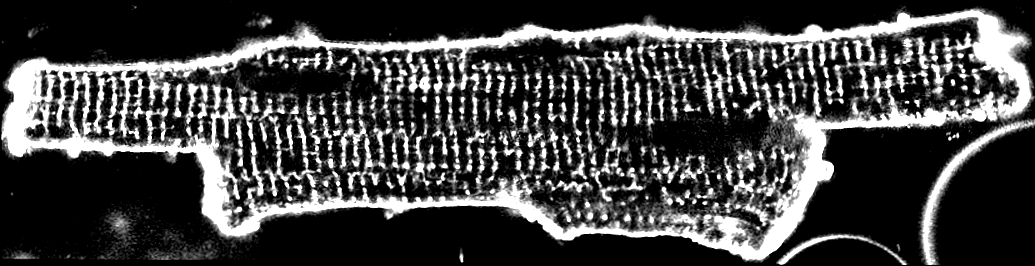
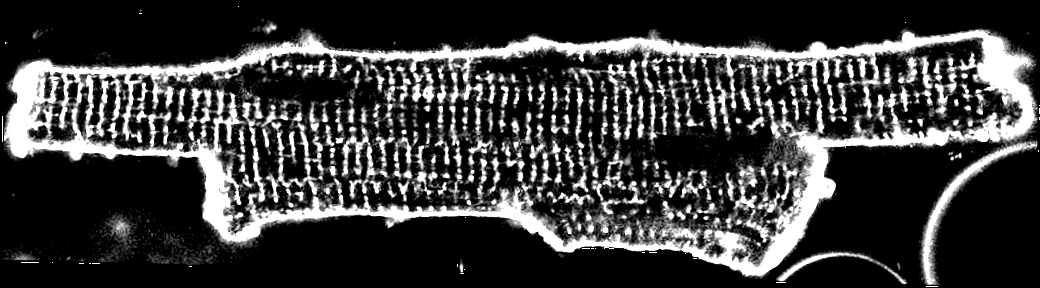
Fixed issue with rotation values not validating. Made improvements to auto preprocessing routine

diff --git a/preprocessing.py b/preprocessing.py
@@ -35,10 +35,11 @@ def normalizeToStriations(img, subsectionIdxs,filterSize):
   thisPath = os.path.realpath(__file__).split('/')[:-1]
   thisPath = '/'.join(thisPath)
   WTfilterName = thisPath+'/myoimages/singleTTFilter.png'
-  #WTfilter = util.ReadImg(WTfilterName,renorm=True)
-  # divide by the sum so that we are averaging across the filter
-  #WTfilter /= np.sum(WTfilter)
   WTfilter = util.LoadFilter(WTfilterName)
+
+  if img.dtype != np.uint8:
+    img = img.astype(np.float32) / float(np.max(img)) * 255.
+    img = img.astype(np.uint8)
 
   ### Perform smoothing on subsection
   smoothed = np.asarray(mF.matchedFilter(img,WTfilter,demean=False))
@@ -48,8 +49,9 @@ def normalizeToStriations(img, subsectionIdxs,filterSize):
                                        subsectionIdxs[2]:subsectionIdxs[3]]
 
   ### Now we have to normalize to 255 for cv2 algorithm to work
-  smoothedSubsection = smoothedSubsection * 255. / np.max(smoothedSubsection)
-  smoothedSubsection = smoothedSubsection.astype(np.uint8)
+  if img.dtype != np.uint8:
+    smoothedSubsection = smoothedSubsection * 255. / np.max(smoothedSubsection)
+    smoothedSubsection = smoothedSubsection.astype(np.uint8)
   #plt.figure()
   #plt.imshow(smoothedSubsection)
   #plt.colorbar()
@@ -413,10 +415,20 @@ def resizeGivenSubsection(img,subsection,filterTwoSarcomereSize,indexes):
 def applyCLAHE(img,filterTwoSarcomereSize):
   print "Applying CLAHE to Myocyte"
 
+  if img.dtype != np.uint8:
+    # convert to uint8 data type to use with clahe algorithm
+    fixed = True
+    oldImgMax = np.max(img)
+    img = img * 255. / float(np.max(img))
+    img = img.astype(np.uint8)
+
   kernel = (filterTwoSarcomereSize, filterTwoSarcomereSize)
   clahe = cv2.createCLAHE(clipLimit=2.0, tileGridSize=kernel)
 
   clahedImage = clahe.apply(img)
+
+  if fixed:
+    img = img.astype(np.float32) / float(np.max(img)) * oldImgMax
 
   return clahedImage
 ###############################################################################
@@ -425,7 +437,7 @@ def applyCLAHE(img,filterTwoSarcomereSize):
 ###
 ###############################################################################
 
-def preprocess(fileName,filterTwoSarcomereSize):
+def preprocess(fileName,filterTwoSarcomereSize,writeImage=False):
   img = util.ReadImg(fileName)
 
   img,degreesOffCenter = reorient(img)
@@ -440,9 +452,12 @@ def preprocess(fileName,filterTwoSarcomereSize):
     1
 
   # write file
-  name,fileType = fileName[:-4],fileName[-4:]
-  newName = name+"_processed"+fileType
-  cv2.imwrite(newName,img)
+  if writeImage:
+    name,fileType = fileName[:-4],fileName[-4:]
+    newName = name+"_processed"+fileType
+    cv2.imwrite(newName,img)
+
+  img = img.astype(np.float32) / float(np.max(img))
 
   return img
 

diff --git a/matchedmyo.py b/matchedmyo.py
@@ -307,7 +307,13 @@ class Inputs:
 
     ### Check to see if we need to preprocess the image at all
     if self.dic['preprocess']:
+      self.imgOrig = util.ReadImg(self.imageName)
       self.imgOrig = pp.preprocess(self.dic['imageName'], self.dic['filterTwoSarcomereSize'])
+      ## remake the color image
+      eightBitImage = self.imgOrig.astype(np.float32).copy()
+      eightBitImage = eightBitImage / np.max(eightBitImage) * 255. * 0.8 # 0.8 is to kill the brightness
+      eightBitImage = eightBitImage.astype(np.uint8)
+      self.colorImage = np.dstack((eightBitImage,eightBitImage,eightBitImage))
 
   def load_yaml(self):
     '''Function to read and store the yaml dictionary'''
@@ -605,11 +611,8 @@ def analyzeTT_Angles(testImageName,
   ttFilter = util.LoadFilter(ttFilterName)
   longFilter = np.concatenate((ttFilter,ttFilter,ttFilter))
     
-  #rotInputs = Inputs(
-  #  imageName = inputs.imageName,
-  #  yamlFileName = inputs.yamlFileName,
-  #  mfOrig = longFilter)
   rotInputs = copy.deepcopy(inputs)
+  rotInputs.mfOrig = longFilter
   rotInputs.imgOrig = smoothed
 
   params = optimizer.ParamDict(typeDict='WT')
@@ -733,7 +736,7 @@ def giveMarkedMyocyte(
   if inputs.dic['filterTypes']['TT']:
     wtMasked = util.ReadResizeApplyMask(
       WTstackedHits,
-      inputs.yamlDict['imageName'],
+      inputs.imageName,
       ImgTwoSarcSize,
       filterTwoSarcSize=ImgTwoSarcSize,
       maskName=inputs.dic['maskName']
@@ -743,7 +746,7 @@ def giveMarkedMyocyte(
   if inputs.dic['filterTypes']['LT']:
     ltMasked = util.ReadResizeApplyMask(
       LTstackedHits,
-      inputs.yamlDict['imageName'],
+      inputs.imageName,
       ImgTwoSarcSize,
       filterTwoSarcSize=ImgTwoSarcSize,
       maskName=inputs.dic['maskName']
@@ -753,7 +756,7 @@ def giveMarkedMyocyte(
   if inputs.dic['filterTypes']['TA']:
     lossMasked = util.ReadResizeApplyMask(
       LossstackedHits,
-      inputs.yamlDict['imageName'],
+      inputs.imageName,
       ImgTwoSarcSize,
       filterTwoSarcSize=ImgTwoSarcSize,
       maskName=inputs.dic['maskName']
@@ -811,7 +814,7 @@ def giveMarkedMyocyte(
     ### apply mask to marked image to avoid content > 1.0
     myResults.markedImage = util.ReadResizeApplyMask(
       myResults.markedImage,
-      inputs.yamlDict['imageName'],
+      inputs.imageName,
       ImgTwoSarcSize,
       filterTwoSarcSize=ImgTwoSarcSize,
       maskName=inputs.dic['maskName']
